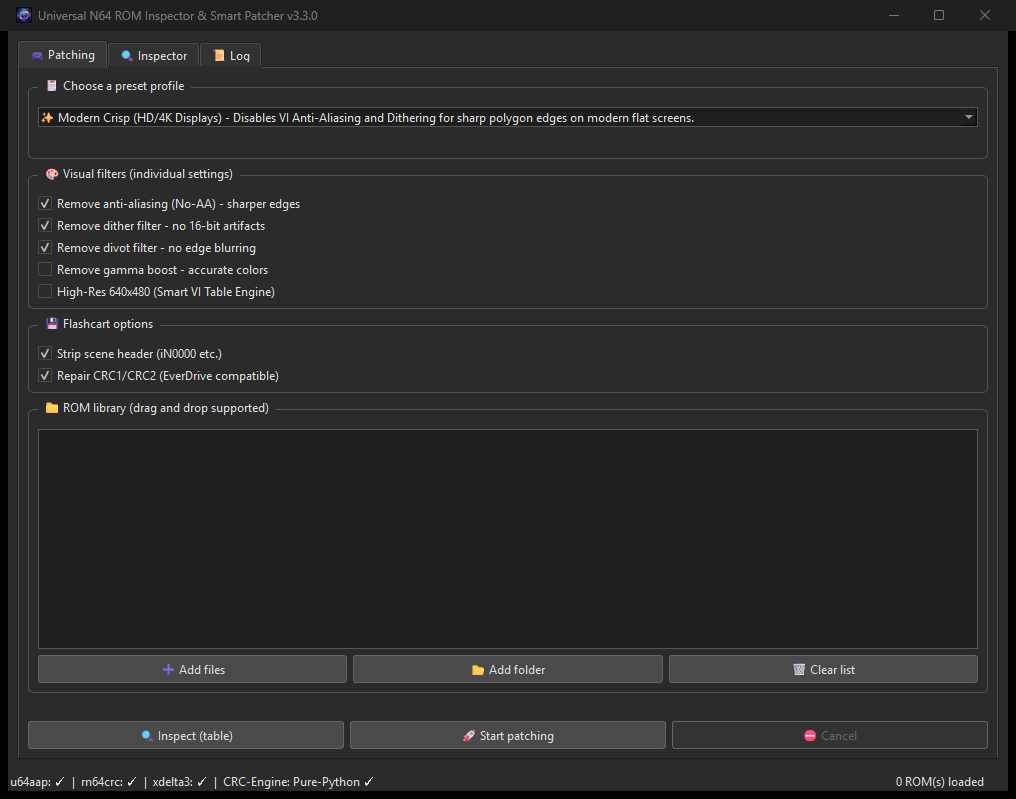
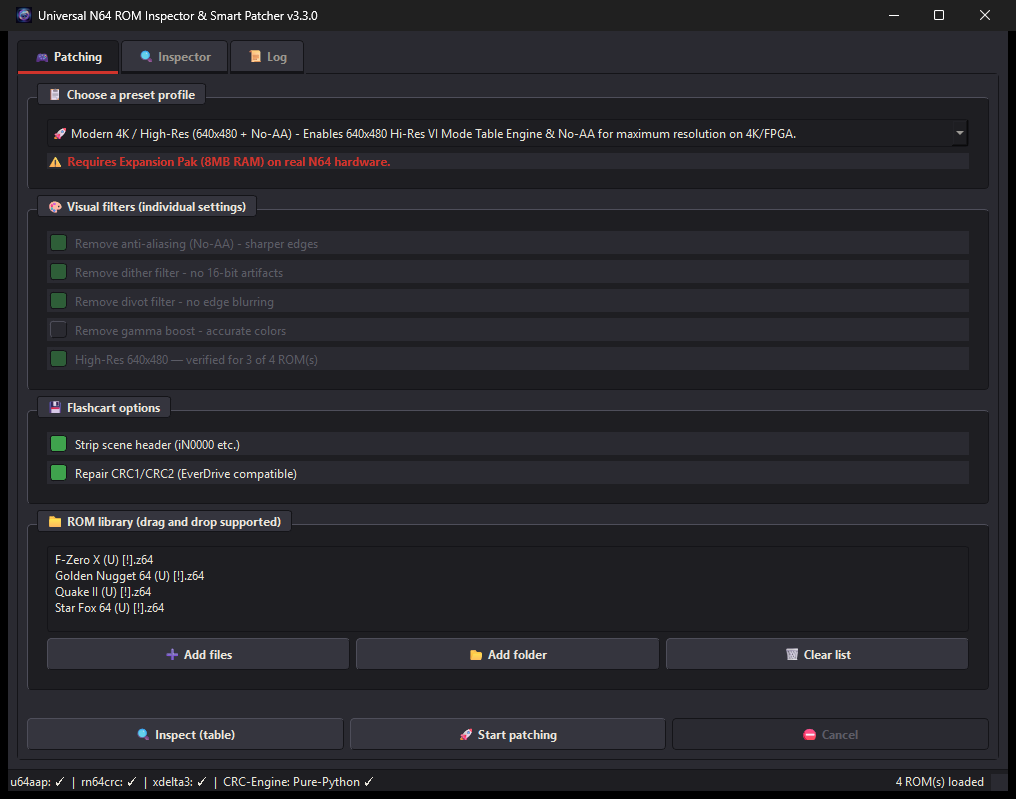
Add a console-era GUI theme
Dark moulded-plastic panels, bevelled controls that visibly travel on
press, warm off-white label text, and four primary accent colours used to
separate functions - coloured tab underlines, green checkboxes, blue
selection and table headers.

Kept clear of anything owned: no Nintendo logo, wordmark, typeface or
character art, and the four accents are used functionally rather than
arranged into anything logo-like. theme.py states those limits at the top,
next to the styling, so the constraint travels with the code it governs.
The README gained a trademark section: unaffiliated with Nintendo, "N64"
used descriptively, no ROMs shipped.

Building it exposed a real state bug. A checkbox that is checked *and*
disabled - exactly what selecting a preset produces - rendered as
unchecked, because the :disabled rule overrode :checked. The UI was
therefore misreporting what a run would do. Checked-disabled now paints a
dimmed fill.

Two smaller fixes: the preset warning label no longer reserves a blank
strip when empty, and QComboBox::drop-down is deliberately left unstyled
because touching that sub-control makes Qt stop drawing the arrow.

Screenshots refreshed for both tabs.

Claude-Session: https://claude.ai/code/session_012amZSEvPou7LaZdqc21CxY

diff --git a/src/n64patcher/theme.py b/src/n64patcher/theme.py
@@ -1,0 +1,236 @@
+"""Console-era visual theme for the desktop app.
+
+Deliberately evokes mid-90s games hardware without borrowing anything that
+belongs to anyone: dark textured console plastic, chunky bevelled controls,
+a warm off-white label text, and four primary accent colours used to tell
+functions apart.
+
+What this file must never contain, because those are trademarks:
+  * the interlocking-N cube logo, or any recreation of it
+  * the "Nintendo 64" wordmark, its lettering or official fonts
+  * character art, or anything implying endorsement or affiliation
+
+Colours and general 90s industrial styling are not protectable, and the
+four accent colours below are used functionally - to distinguish tabs,
+states and status - never arranged into a logo-like mark.
+"""
+
+# --- palette --------------------------------------------------------------
+# Console plastic, slightly warm rather than a neutral grey, which is what
+# makes the difference between "generic dark theme" and "moulded ABS".
+PLASTIC_DARK = "#1E1E22"      # recessed areas, list backgrounds
+PLASTIC = "#2A2A31"           # main body
+PLASTIC_LIGHT = "#35353E"     # raised controls
+PLASTIC_HILIGHT = "#43434E"   # hover
+BEVEL_LIGHT = "#4E4E5A"       # top/left edge of a raised control
+BEVEL_DARK = "#141418"        # bottom/right edge
+
+LABEL = "#E8E4DA"             # warm off-white, like a printed cart label
+LABEL_DIM = "#9A968E"
+DISABLED = "#5C5C66"
+
+# Primary accents. Generic colours, used to separate functions.
+ACCENT_RED = "#D0342C"
+ACCENT_BLUE = "#2F6FC4"
+ACCENT_GREEN = "#3FA34D"
+ACCENT_YELLOW = "#E5B02B"
+
+FOCUS = ACCENT_BLUE
+DANGER = ACCENT_RED
+OK = ACCENT_GREEN
+
+
+def stylesheet() -> str:
+    """Qt stylesheet for the whole application."""
+    return f"""
+        QMainWindow, QDialog {{ background-color: {PLASTIC}; }}
+        QWidget {{
+            background-color: {PLASTIC};
+            color: {LABEL};
+            font-size: 12px;
+        }}
+
+        /* Panels read as moulded recesses in the console shell. */
+        QGroupBox {{
+            background-color: {PLASTIC_DARK};
+            border: 1px solid {BEVEL_DARK};
+            border-top-color: {BEVEL_LIGHT};
+            border-left-color: {BEVEL_LIGHT};
+            border-radius: 4px;
+            margin-top: 14px;
+            padding: 12px 10px 10px 10px;
+            font-weight: bold;
+        }}
+        QGroupBox::title {{
+            subcontrol-origin: margin;
+            subcontrol-position: top left;
+            left: 10px;
+            padding: 2px 8px;
+            background-color: {PLASTIC_LIGHT};
+            border: 1px solid {BEVEL_DARK};
+            border-radius: 3px;
+            color: {LABEL};
+        }}
+
+        /* Chunky, bevelled, with real travel on press. */
+        QPushButton {{
+            background-color: {PLASTIC_LIGHT};
+            border: 1px solid {BEVEL_DARK};
+            border-top-color: {BEVEL_LIGHT};
+            border-left-color: {BEVEL_LIGHT};
+            border-radius: 4px;
+            padding: 7px 14px;
+            color: {LABEL};
+            font-weight: bold;
+        }}
+        QPushButton:hover {{ background-color: {PLASTIC_HILIGHT}; }}
+        QPushButton:pressed {{
+            background-color: {PLASTIC_DARK};
+            border-top-color: {BEVEL_DARK};
+            border-left-color: {BEVEL_DARK};
+            border-bottom-color: {BEVEL_LIGHT};
+            border-right-color: {BEVEL_LIGHT};
+            padding: 8px 13px 6px 15px;
+        }}
+        QPushButton:disabled {{
+            background-color: {PLASTIC};
+            color: {DISABLED};
+            border-color: {BEVEL_DARK};
+        }}
+        QPushButton:focus {{ border: 1px solid {FOCUS}; }}
+
+        /* Tabs as cartridge spines, each with its own accent. */
+        QTabWidget::pane {{
+            border: 1px solid {BEVEL_DARK};
+            border-radius: 4px;
+            top: -1px;
+        }}
+        QTabBar::tab {{
+            background-color: {PLASTIC_LIGHT};
+            border: 1px solid {BEVEL_DARK};
+            border-bottom: 3px solid {BEVEL_DARK};
+            border-top-left-radius: 4px;
+            border-top-right-radius: 4px;
+            padding: 7px 16px;
+            margin-right: 2px;
+            color: {LABEL_DIM};
+            font-weight: bold;
+        }}
+        QTabBar::tab:hover {{ color: {LABEL}; }}
+        QTabBar::tab:selected {{
+            background-color: {PLASTIC_DARK};
+            color: {LABEL};
+        }}
+        QTabBar::tab:selected:first {{ border-bottom-color: {ACCENT_RED}; }}
+        QTabBar::tab:selected:middle {{ border-bottom-color: {ACCENT_BLUE}; }}
+        QTabBar::tab:selected:last {{ border-bottom-color: {ACCENT_YELLOW}; }}
+
+        /* Recessed data surfaces. */
+        QComboBox, QListWidget, QTreeWidget, QPlainTextEdit, QLineEdit {{
+            background-color: {PLASTIC_DARK};
+            border: 1px solid {BEVEL_DARK};
+            border-top-color: {BEVEL_DARK};
+            border-radius: 3px;
+            padding: 4px;
+            selection-background-color: {ACCENT_BLUE};
+            selection-color: #FFFFFF;
+        }}
+        QComboBox:focus, QListWidget:focus, QTreeWidget:focus,
+        QPlainTextEdit:focus {{ border: 1px solid {FOCUS}; }}
+        /* QComboBox::drop-down is deliberately NOT styled: touching that
+           sub-control makes Qt stop drawing the arrow, leaving a blank
+           box, and re-supplying one means shipping an image. */
+        QComboBox QAbstractItemView {{
+            background-color: {PLASTIC_DARK};
+            border: 1px solid {BEVEL_LIGHT};
+            selection-background-color: {ACCENT_BLUE};
+        }}
+
+        QTreeWidget::item {{ padding: 3px; }}
+        QTreeWidget::item:alternate {{ background-color: #232329; }}
+        QHeaderView::section {{
+            background-color: {PLASTIC_LIGHT};
+            border: none;
+            border-right: 1px solid {BEVEL_DARK};
+            border-bottom: 2px solid {ACCENT_BLUE};
+            padding: 5px 8px;
+            font-weight: bold;
+            color: {LABEL};
+        }}
+
+        QCheckBox {{ spacing: 8px; padding: 3px; }}
+        QCheckBox::indicator {{
+            width: 15px;
+            height: 15px;
+            border: 1px solid {BEVEL_DARK};
+            border-top-color: {BEVEL_LIGHT};
+            border-left-color: {BEVEL_LIGHT};
+            border-radius: 3px;
+            background-color: {PLASTIC_DARK};
+        }}
+        QCheckBox::indicator:hover {{ border-color: {FOCUS}; }}
+        QCheckBox::indicator:checked {{
+            background-color: {ACCENT_GREEN};
+            border-color: {BEVEL_DARK};
+        }}
+        /* A locked preset disables the boxes but they are still checked.
+           Dim the fill rather than clearing it, or the UI misreports what
+           it is about to do. */
+        QCheckBox::indicator:checked:disabled {{
+            background-color: #2E5E38;
+            border-color: {BEVEL_DARK};
+        }}
+        QCheckBox::indicator:unchecked:disabled {{
+            background-color: {PLASTIC};
+        }}
+        QCheckBox:disabled {{ color: {DISABLED}; }}
+
+        QProgressBar {{
+            background-color: {PLASTIC_DARK};
+            border: 1px solid {BEVEL_DARK};
+            border-radius: 3px;
+            text-align: center;
+            color: {LABEL};
+            font-weight: bold;
+            height: 18px;
+        }}
+        QProgressBar::chunk {{
+            background-color: {ACCENT_GREEN};
+            border-radius: 2px;
+        }}
+
+        QScrollBar:vertical {{
+            background-color: {PLASTIC_DARK};
+            width: 13px;
+            margin: 0;
+        }}
+        QScrollBar::handle:vertical {{
+            background-color: {PLASTIC_HILIGHT};
+            border-radius: 3px;
+            min-height: 24px;
+        }}
+        QScrollBar::handle:vertical:hover {{ background-color: {BEVEL_LIGHT}; }}
+        QScrollBar::add-line, QScrollBar::sub-line {{ height: 0; width: 0; }}
+        QScrollBar:horizontal {{
+            background-color: {PLASTIC_DARK};
+            height: 13px;
+        }}
+        QScrollBar::handle:horizontal {{
+            background-color: {PLASTIC_HILIGHT};
+            border-radius: 3px;
+            min-width: 24px;
+        }}
+
+        QStatusBar {{
+            background-color: {PLASTIC_DARK};
+            border-top: 1px solid {BEVEL_DARK};
+            color: {LABEL_DIM};
+        }}
+        QStatusBar QLabel {{ background: transparent; }}
+        QToolTip {{
+            background-color: {PLASTIC_DARK};
+            color: {LABEL};
+            border: 1px solid {ACCENT_YELLOW};
+            padding: 6px;
+        }}
+    """

diff --git a/src/n64patcher/gui.py b/src/n64patcher/gui.py
@@ -41,6 +41,7 @@ from PyQt6.QtWidgets import (
 )
 
 from . import n64_core as core
+from . import theme
 from .header_utils import detect_and_strip_scene_header, fix_rom_crc
 from .presets import apply_preset, get_preset_warnings, list_presets
 from .zip_handler import (
@@ -220,8 +221,10 @@ class N64PatcherGUI(QMainWindow):
         preset_layout.addWidget(self.preset_combo)
 
         self.preset_warning_label = QLabel("")
-        self.preset_warning_label.setStyleSheet("color: #ff6b6b; font-weight: bold;")
+        self.preset_warning_label.setStyleSheet(
+            f"color: {theme.DANGER}; font-weight: bold;")
         self.preset_warning_label.setWordWrap(True)
+        self.preset_warning_label.setVisible(False)
         preset_layout.addWidget(self.preset_warning_label)
 
         preset_group.setLayout(preset_layout)
@@ -348,11 +351,17 @@ class N64PatcherGUI(QMainWindow):
 
     # ------------------------------------------------------- Presets
 
+    def _set_preset_warning(self, text):
+        """Show the warning line only when there is one; an empty label
+        still reserves vertical space."""
+        self.preset_warning_label.setText(text)
+        self.preset_warning_label.setVisible(bool(text))
+
     def on_preset_changed(self, index):
         preset_key = self.preset_combo.currentData()
 
         if preset_key == "custom":
-            self.preset_warning_label.setText("")
+            self._set_preset_warning("")
             for cb in [self.cb_no_aa, self.cb_no_dither, self.cb_no_divot,
                        self.cb_no_gamma, self.cb_hires]:
                 cb.setEnabled(True)
@@ -378,9 +387,9 @@ class N64PatcherGUI(QMainWindow):
                     "640x480 will be skipped: none of the loaded ROMs has a "
                     "verified patch (widening alone breaks rendering).")
             if warnings:
-                self.preset_warning_label.setText("\n".join(f"⚠ {w}" for w in warnings))
+                self._set_preset_warning("\n".join(f"⚠ {w}" for w in warnings))
             else:
-                self.preset_warning_label.setText("")
+                self._set_preset_warning("")
 
     # -------------------------------------------------- Drag & Drop
 
@@ -735,49 +744,7 @@ def main():
     app = QApplication(sys.argv)
     app.setStyle("Fusion")
 
-    app.setStyleSheet("""
-        QMainWindow { background-color: #2b2b2b; }
-        QWidget { background-color: #2b2b2b; color: #e0e0e0; }
-        QGroupBox {
-            border: 1px solid #555;
-            border-radius: 5px;
-            margin-top: 10px;
-            padding-top: 10px;
-        }
-        QGroupBox::title {
-            subcontrol-origin: margin;
-            left: 10px;
-            padding: 0 5px;
-        }
-        QPushButton {
-            background-color: #4a4a4a;
-            border: 1px solid #666;
-            border-radius: 3px;
-            padding: 5px 10px;
-            color: #e0e0e0;
-        }
-        QPushButton:hover { background-color: #5a5a5a; }
-        QPushButton:pressed { background-color: #3a3a3a; }
-        QPushButton:disabled { background-color: #333; color: #666; }
-        QComboBox, QListWidget, QTreeWidget, QPlainTextEdit {
-            background-color: #1e1e1e;
-            border: 1px solid #555;
-        }
-        QCheckBox { spacing: 5px; }
-        QProgressBar {
-            border: 1px solid #555;
-            border-radius: 3px;
-            text-align: center;
-        }
-        QProgressBar::chunk {
-            background-color: #4CAF50;
-        }
-        QHeaderView::section {
-            background-color: #3a3a3a;
-            border: 1px solid #555;
-            padding: 2px 6px;
-        }
-    """)
+    app.setStyleSheet(theme.stylesheet())
 
     window = N64PatcherGUI()
     window.show()

diff --git a/README.md b/README.md
@@ -96,7 +96,14 @@ in scripts. Run `n64patcher --help` for the full list.
 
 ![Universal N64 Smart Patcher GUI](gui_screenshot.png)
 
-Features a PyQt6 dark-mode interface with preset dropdowns, Flashcart checkboxes, tabbed execution logs, and property tooltips.
+![Inspector table](docs/inspector_screenshot.png)
+
+PyQt6 interface themed after mid-90s console hardware: dark moulded-plastic
+panels, chunky bevelled controls, and four primary accent colours used to
+separate functions. Preset profiles lock the individual filters (shown
+dimmed but still ticked, so the UI never misreports what it will do), the
+640x480 box reports how many loaded ROMs actually support it, and the status
+bar shows which helper tools resolved.
 
 ---
 
@@ -464,6 +471,24 @@ was carried out with **Claude Opus 5** in Claude Code, working against a real
 5. **Independent Re-Verification**: `--verify` re-opens each output and re-derives its checksums from the data, rather than trusting the code that wrote it. `--verify-report` emits the per-ROM result as CSV/JSON.
 
 ---
+
+---
+
+## ⚖ Trademarks
+
+This is an independent, unofficial tool. It is **not affiliated with,
+endorsed by, or sponsored by Nintendo**.
+
+"Nintendo 64" and "N64" are trademarks of Nintendo. They are used here only
+descriptively, to say what file formats and hardware this tool works with —
+nominative fair use. The interface takes visual cues from the era's
+industrial design (dark plastic, bevelled controls, primary accent colours);
+it deliberately contains no Nintendo logo, wordmark, typeface, or character
+artwork, and reproduces no part of any Nintendo mark. See
+`src/n64patcher/theme.py`, which states those limits where the styling lives.
+
+This tool ships **no game ROMs** and none of its features require or
+distribute copyrighted game data. Supply your own dumps of games you own.
 
 ## 📜 License
 

diff --git a/CHANGELOG.md b/CHANGELOG.md
@@ -1,5 +1,12 @@
 # Changelog
 
+## Unreleased
+
+- Console-era GUI theme in `theme.py`: dark moulded-plastic panels, bevelled controls with real press travel, four primary accent colours used functionally, coloured tab underlines. Contains no Nintendo logo, wordmark, typeface or character art, and the module documents those limits inline.
+- Fixed a state bug the theme exposed: a checkbox that was checked *and* disabled (which is what a locked preset produces) rendered as unchecked, so the UI misreported what a run would do. Checked-disabled now shows a dimmed fill.
+- The preset warning label no longer reserves a blank strip when there is nothing to warn about.
+- README gained a trademark section stating the project is unaffiliated with Nintendo and ships no ROMs.
+
 ## v3.3 - Hi-Res Gating
 
 - Frozen builds now bundle `patches/*.json` and resolve it via `sys._MEIPASS`. Without this the shipped EXE loaded zero recipes and reported every verified dump as unsupported - caught by running the built binary rather than trusting the build.
